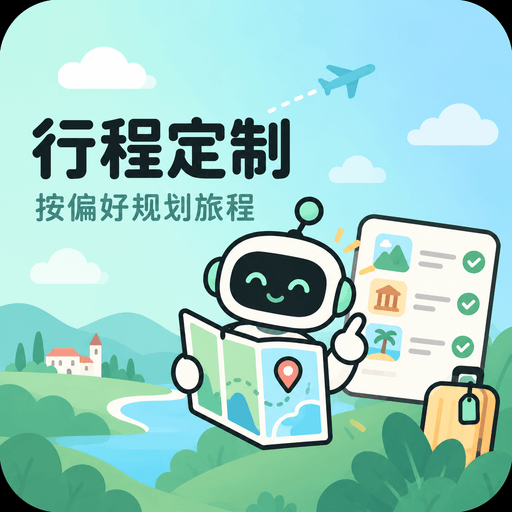
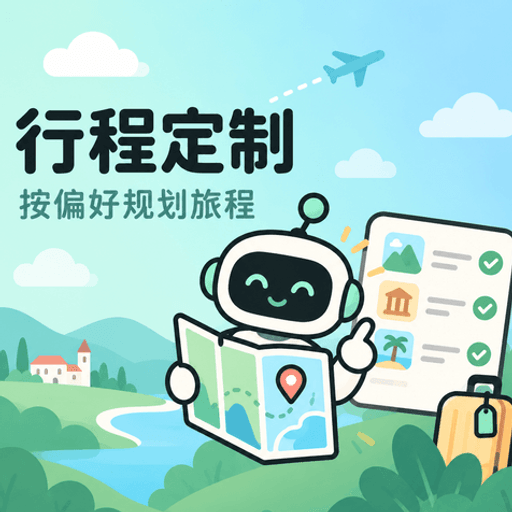
fix: polish travel UI interaction details

diff --git a/tests/unit/provided-assets-ui.test.ts b/tests/unit/provided-assets-ui.test.ts
@@ -1,4 +1,5 @@
 import { readFile, stat } from 'node:fs/promises';
+import { inflateSync } from 'node:zlib';
 import { describe, expect, it } from 'vitest';
 
 const root = 'miniprogram/assets/provided';
@@ -15,6 +16,40 @@ const assets = [
 ] as const;
 
 function pngDimension(bytes: Buffer, offset: number) { return bytes.readUInt32BE(offset); }
+function pngCornerPaletteIndexes(bytes: Buffer) {
+  const width = pngDimension(bytes, 16);
+  const height = pngDimension(bytes, 20);
+  if (bytes[24] !== 8 || bytes[25] !== 3) throw new Error('Expected an 8-bit indexed PNG');
+  const chunks: Buffer[] = [];
+  let offset = 8;
+  while (offset < bytes.length) {
+    const size = bytes.readUInt32BE(offset);
+    const type = bytes.subarray(offset + 4, offset + 8).toString();
+    if (type === 'IDAT') chunks.push(bytes.subarray(offset + 8, offset + 8 + size));
+    offset += size + 12;
+  }
+  const rows = inflateSync(Buffer.concat(chunks));
+  const result = Buffer.alloc(width * height);
+  let source = 0;
+  for (let y = 0; y < height; y += 1) {
+    const filter = rows[source++];
+    for (let x = 0; x < width; x += 1) {
+      const raw = rows[source++];
+      const left = x ? result[y * width + x - 1] : 0;
+      const up = y ? result[(y - 1) * width + x] : 0;
+      const upperLeft = x && y ? result[(y - 1) * width + x - 1] : 0;
+      const predictor = left + up - upperLeft;
+      const pa = Math.abs(predictor - left);
+      const pb = Math.abs(predictor - up);
+      const pc = Math.abs(predictor - upperLeft);
+      const predicted = pa <= pb && pa <= pc ? left : pb <= pc ? up : upperLeft;
+      const value = filter === 0 ? raw : filter === 1 ? raw + left : filter === 2 ? raw + up : filter === 3 ? raw + Math.floor((left + up) / 2) : filter === 4 ? raw + predicted : NaN;
+      if (!Number.isFinite(value)) throw new Error(`Unsupported PNG filter: ${filter}`);
+      result[y * width + x] = value & 0xff;
+    }
+  }
+  return [result[0], result[width - 1], result[(height - 1) * width], result[result.length - 1]];
+}
 function jpegDimensions(bytes: Buffer) {
   if (bytes[0] !== 0xff || bytes[1] !== 0xd8) throw new Error('Invalid JPEG');
   let offset = 2;
@@ -56,6 +91,17 @@ describe('provided visual assets and UI boundary', () => {
     expect(total + placeholderInfo.size).toBeLessThanOrEqual(1_000_000);
     expect(heroTotal).toBeLessThanOrEqual(450_000);
     expect(iconTotal + placeholderInfo.size).toBeLessThanOrEqual(610_000);
+  });
+
+  it('keeps the trip card artwork filled through every outer corner', async () => {
+    const bytes = await readFile(`${root}/trip-plan.png`);
+    const paletteIndexes = pngCornerPaletteIndexes(bytes);
+    const paletteOffset = bytes.indexOf(Buffer.from('PLTE'));
+    expect(paletteOffset).toBeGreaterThan(0);
+    for (const index of paletteIndexes) {
+      const rgb = bytes.subarray(paletteOffset + 4 + index * 3, paletteOffset + 7 + index * 3);
+      expect([...rgb]).not.toEqual([0, 0, 0]);
+    }
   });
 
   it('keeps routes, bindings and supported category values while replacing only presentation', async () => {

diff --git a/tests/unit/components.test.ts b/tests/unit/components.test.ts
@@ -42,6 +42,7 @@ describe('reusable travel components', () => {
     expect(card).not.toContain('class="tags"');
     expect(cardStyle).toContain('height: 336rpx');
     expect(cardStyle).toContain('font-weight: 750');
+    expect(cardStyle).toMatch(/\.favorite-action\s*\{[^}]*min-height:\s*80rpx/);
     expect(cardStyle).not.toMatch(/\.favorite\s+text/);
     expect(feedbackStyle).toContain('var(--color-brand-deep)');
     expect(feedbackStyle).toContain('var(--color-action)');
@@ -54,19 +55,31 @@ describe('reusable travel components', () => {
     expect(detail).toContain('local_reference');
     expect(detail).toContain('价格、营业时间、交通和预约请以官方公告为准。');
   });
-  it('maps picker indexes to valid categories and rejects unknown indexes', async () => {
+  it('maps every picker index to the existing category contract and rejects unknown indexes', async () => {
     const definition = await component('category-filter');
     const options = definition.data.options as Array<{ value: string; label: string }>;
     expect(options.map(item => item.label)).toEqual(['全部分类', '景区', '餐馆', '文化馆/博物馆', '露营地']);
     const ctx = instance({ value: '', selectedIndex: 0, options });
-    definition.methods.onChange.call(ctx, { detail: { value: '3' } });
-    expect(ctx.triggerEvent).toHaveBeenCalledWith('categorychange', { category: 'culture' });
-    expect(ctx.data.selectedIndex).toBe(3);
+    for (const [index, category] of ['', 'scenic', 'restaurant', 'culture', 'camping'].entries()) {
+      ctx.triggerEvent.mockClear();
+      definition.methods.onChange.call(ctx, { detail: { value: String(index) } });
+      expect(ctx.triggerEvent).toHaveBeenCalledWith('categorychange', { category });
+      expect(ctx.data.selectedIndex).toBe(index);
+    }
     ctx.triggerEvent.mockClear();
     definition.methods.onChange.call(ctx, { detail: { value: '99' } });
     expect(ctx.triggerEvent).not.toHaveBeenCalled();
     definition.methods.onChange.call(ctx, { detail: { value: '-1' } });
     expect(ctx.triggerEvent).not.toHaveBeenCalled();
+  });
+  it('keeps the picker label synchronized with valid and invalid external values', async () => {
+    const definition = await component('category-filter');
+    const observer = definition.properties.value.observer!;
+    const ctx = instance({ selectedIndex: 4 });
+    observer.call(ctx, 'restaurant');
+    expect(ctx.data.selectedIndex).toBe(2);
+    observer.call(ctx, 'unknown');
+    expect(ctx.data.selectedIndex).toBe(0);
   });
   it('only exposes retry from an error state', async () => {
     const definition = await component('async-state');
